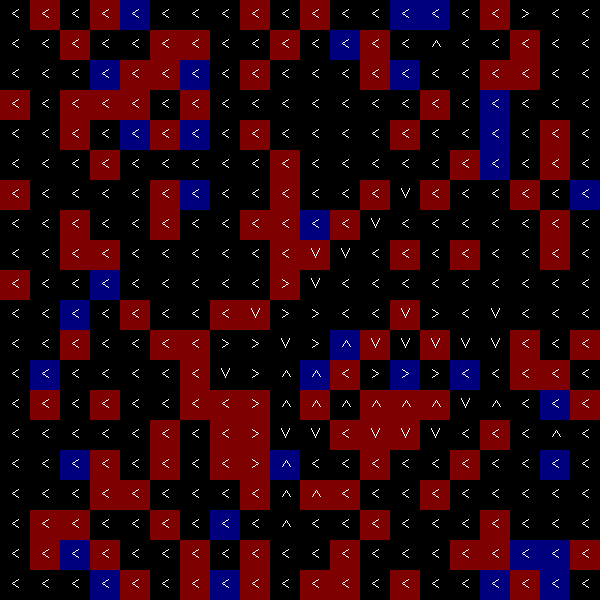
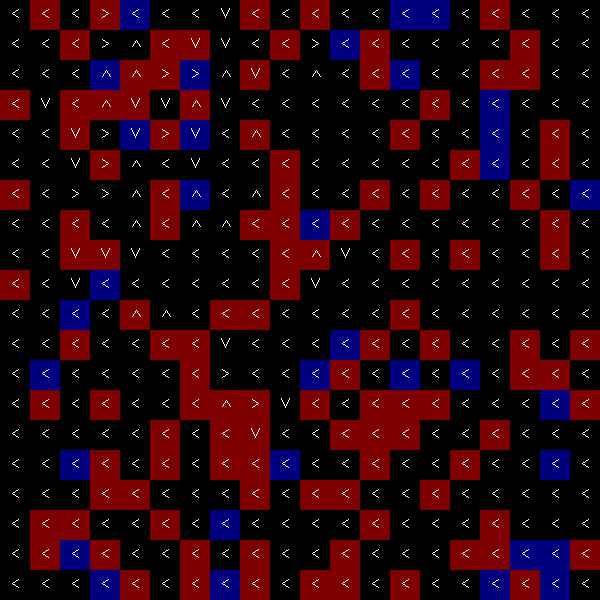
Q値のシート分け

diff --git a/sairyou/agent2.py b/sairyou/agent2.py
@@ -1,0 +1,217 @@
+import numpy
+import cv2
+import random
+import copy
+import itertools
+
+class Agent:
+
+    # constructor
+    def __init__(self, maze_shape, start, reward_indexes):
+        #初期位置座標
+        self.state = numpy.array(start)
+        #各マスにおける可能な行動を生成 十字キーに0~3を振り分ける
+        self.actions = self.__create_actions(maze_shape)
+        #十字キーと実際の動きを対応させる
+        self.moves = {0: numpy.array([0, -1]), 1: numpy.array([1, 0]), 2: numpy.array([0, 1]), 3: numpy.array([-1, 0])}
+        #4*ステージの大きさのQ値格納用のリスト？
+        #各マスの各行動（上，下，左，右）の行動ごとの価値を入れる
+
+
+        self.default_q = numpy.zeros((4, ) + maze_shape)
+        self.one_q = {}
+        for i in reward_indexes:
+            self.one_q[tuple(i)] = numpy.zeros((4, ) + maze_shape)
+
+        self.two_q = {}
+        temp_list=[]
+        for i in reward_indexes:
+            temp_list.append(tuple(i))
+        collection = list(itertools.permutations(temp_list, 2))
+        for j in collection:
+            self.two_q[j] = numpy.zeros((4, ) + maze_shape)
+
+
+
+# public method
+    def act(self, maze, epsilon, alpha, gamma, counter, poke_location):
+        #行動を選択（0~3）
+        act_index = self.__select_action(epsilon, counter, poke_location)
+        #行動に対応する座標を取得
+        move = self.moves.get(act_index)
+        #移動した先の報酬を取得
+        reward = maze[tuple(self.state + move)]
+        #Q値の更新
+        self.update_q(act_index, move, reward, alpha, gamma, counter, poke_location)
+        self.state += move
+
+
+    def update_q(self, act_index, move, reward, alpha, gamma, counter, poke_location):
+        y, x = self.state
+        if counter==0:
+            _q = self.default_q[act_index, y, x]
+            self.default_q[act_index, y, x] = _q + alpha * (reward + gamma * self.__get_max_default_q(move) - _q)
+        elif counter==1:
+            _q = self.one_q[tuple(poke_location[1])][act_index, y, x]
+            self.one_q[tuple(poke_location[1])][act_index, y, x] = _q + alpha * (reward + gamma * self.__get_max_one_q(move, tuple(poke_location[1])) - _q)
+        elif counter==2:
+            poke_2=(tuple(poke_location[1]), tuple(poke_location[2]))
+            for i in self.two_q.keys():
+                if poke_2 == i and poke_2[::-1] == i:
+                    poke_2=i
+            _q = self.two_q[poke_2][act_index, y, x]
+            self.two_q[poke_2][act_index, y, x] = _q + alpha * (reward + gamma * self.__get_max_two_q(move, poke_2) - _q)
+
+
+    """
+    def goal(self, maze_shape):
+        #右下についたらゴールと判定？
+        return numpy.array_equal(self.state, numpy.array(maze_shape) - 1)
+    """
+
+    #変更　2018/7/22
+    def poke_count(self, reward_indexes, encount_indexes, counter, poke_location, maze, trial, trial_max):
+        #現在地がポケストップか判定
+        for i in range(len(reward_indexes)):
+            if numpy.array_equal(self.state, reward_indexes[i]) and list(self.state) not in encount_indexes:
+                #コピー
+                copy_zahyou=copy.deepcopy(reward_indexes[i]).tolist()
+
+                #後で使うのでポケストップの場所を保存
+                poke_location.append(copy_zahyou)
+
+                counter+=1
+
+                #1回通ったポケストップをカウントしないように削除
+                """
+                reward_indexes=reward_indexes.tolist()
+                reward_indexes.remove(copy_zahyou)
+                reward_indexes=numpy.array(reward_indexes)
+                """
+                #通ったポケストップを記録
+                encount_indexes.append(copy_zahyou)
+
+                #print("poke_location:", len(poke_location))
+                #print("len(reward_indexes)", len(reward_indexes))
+                #reward_indexes=numpy.delete(reward_indexes, numpy.where(reward_indexes==copy_zahyou))
+                #通ったポケストップの報酬をただの道と同じ0にする
+                maze[tuple(copy_zahyou)]=0
+                break
+        #print("counter:", counter)
+        return maze, reward_indexes, encount_indexes, counter, poke_location
+
+
+    def goal(self, counter, limit):
+        if counter==limit:
+            return True
+        else:
+            return False
+
+
+    def reset(self, start, maze, encount_indexes, max_reward):
+        #初期位置へ戻す
+        self.state = numpy.array(start)
+        for i in encount_indexes:
+            maze[tuple(i)]=max_reward
+
+
+# private method
+    def __create_actions(self, maze_shape):
+        actions = []
+        maze_h, maze_w = maze_shape
+        for j in range(maze_h):
+            actions.append([])
+            for i in range(maze_w):
+                action = [0, 1, 2, 3]
+                self.__remove_actions(action, maze_h, maze_w, j, i)
+                actions[j].append(action)
+
+        return numpy.array(actions)
+
+
+    def __remove_actions(self, action, maze_h, maze_w, j, i):
+        if i == 0:
+            action.remove(0)
+        if i == maze_w - 1:
+            action.remove(2)
+        if j == 0:
+            action.remove(3)
+        if j == maze_h - 1:
+            action.remove(1)
+
+
+    def __select_action(self, epsilon, counter, poke_location):
+        #現在の位置を取得
+        y, x = self.state
+        #現在のマスからとれる行動（の選択肢）を取得
+        action = copy.deepcopy(self.actions[y, x])
+        #0~1未満の数字を生成，εより大きければQ値によって行動を選択
+        if numpy.random.rand() > epsilon:
+            mode = '!!!greedy!!!'
+            act_index = self.__select_greedy_action(action, counter, poke_location)
+        else:
+            #小さければランダムな行動をとる
+            mode = '!!!random!!!'
+            act_index = self.__select_random_action(action)
+
+        #print(u'%s  state: (%d, %d), action: %d' % (mode, y, x, act_index))
+
+        return act_index
+
+
+    def __select_greedy_action(self, action, counter, poke_location):
+        y, x = self.state
+        #価値が最大になる行動の価値（Q値）を取ってくる
+        if counter==0:
+            _max = self.default_q[action, y, x].max()
+            #そのインデックスを取得
+            _indexes = list(numpy.argwhere(self.default_q[action, y, x] == _max))
+        elif counter==1:
+            _max = self.one_q[tuple(poke_location[1])][action, y, x].max()
+            #そのインデックスを取得
+            _indexes = list(numpy.argwhere(self.one_q[tuple(poke_location[1])][action, y, x] == _max))
+        elif counter==2:
+            poke_2=(tuple(poke_location[1]), tuple(poke_location[2]))
+            for i in self.two_q.keys():
+                if poke_2 == i and poke_2[::-1] == i:
+                    poke_2=i
+            #print(poke_2)
+            _max = self.two_q[poke_2][action, y, x].max()
+            #そのインデックスを取得
+            _indexes = list(numpy.argwhere(self.two_q[poke_2][action, y, x] == _max))
+        #価値が最大の行動が複数ある場合はその中からランダムに行動を選ぶ
+        random.shuffle(_indexes)
+        #[0]を追加．_indexes[0]が[数字]になってたので
+        return action[_indexes[0][0]]
+
+
+    def __select_random_action(self, action):
+        random.shuffle(action)
+        return action[0]
+
+
+    def __get_max_default_q(self, move):
+        #移動先のマスの座標
+        y, x = self.state + move
+        #移動先で取れる行動の選択肢
+        move = self.actions[y, x]
+        #移動先のQ値の最大値を返す
+        return self.default_q[move, y, x].max()
+
+
+    def __get_max_one_q(self, move, poke_location):
+        #移動先のマスの座標
+        y, x = self.state + move
+        #移動先で取れる行動の選択肢
+        move = self.actions[y, x]
+        #移動先のQ値の最大値を返す
+        return self.one_q[poke_location][move, y, x].max()
+
+
+    def __get_max_two_q(self, move, poke_location):
+        #移動先のマスの座標
+        y, x = self.state + move
+        #移動先で取れる行動の選択肢
+        move = self.actions[y, x]
+        #移動先のQ値の最大値を返す
+        return self.two_q[poke_location][move, y, x].max()

diff --git a/sairyou/main.py b/sairyou/main.py
@@ -1,4 +1,4 @@
-from agent import *
+from agent2 import *
 from mazeimage import *
 
 if __name__ == '__main__':
@@ -37,7 +37,7 @@ if __name__ == '__main__':
     #通ったポケストップの座標（捨てる用）
     encount_indexes=[]
 
-    agent = Agent(maze.shape, start)
+    agent = Agent(maze.shape, start, reward_indexes)
     maze_image = MazeImage(maze, 600, 600)
 
     trial = 0
@@ -46,7 +46,7 @@ if __name__ == '__main__':
             print('!!!escape!!!')
             break
 
-        agent.act(maze, epsilon, alpha, gamma)
+        agent.act(maze, epsilon, alpha, gamma, counter, poke_location)
         maze_image.save_movie()
 
         #if agent.goal(maze.shape):
@@ -59,14 +59,17 @@ if __name__ == '__main__':
             trial += 1
             print('next trial: %d' % trial)
             agent.reset(start, maze, encount_indexes, max_reward)
-            counter=0
             encount_indexes=[]
+            if trial < trial_max:
+                poke_location=[start]
+            counter=0
 
         if trial == trial_max:
             break
 
     maze_image.save_movie()
-    cv2.imwrite('shortest2.png', maze_image.shortest_path(agent.q))
+    #使うQ値の指定がややこしいから後回し
+    #cv2.imwrite('shortest2.png', maze_image.shortest_path(agent.q))
 
     #初期座標と通ったポケストップの座標表示
     poke_location_xy=[]
